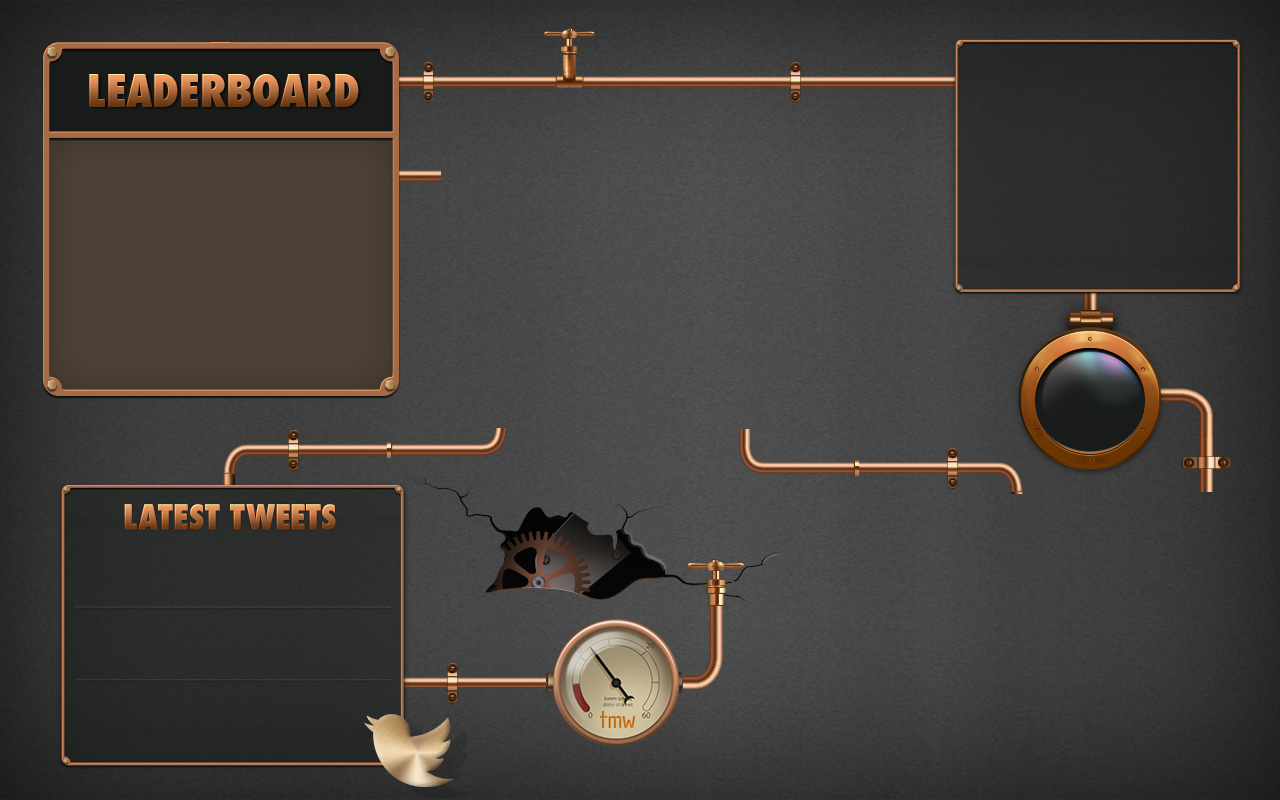
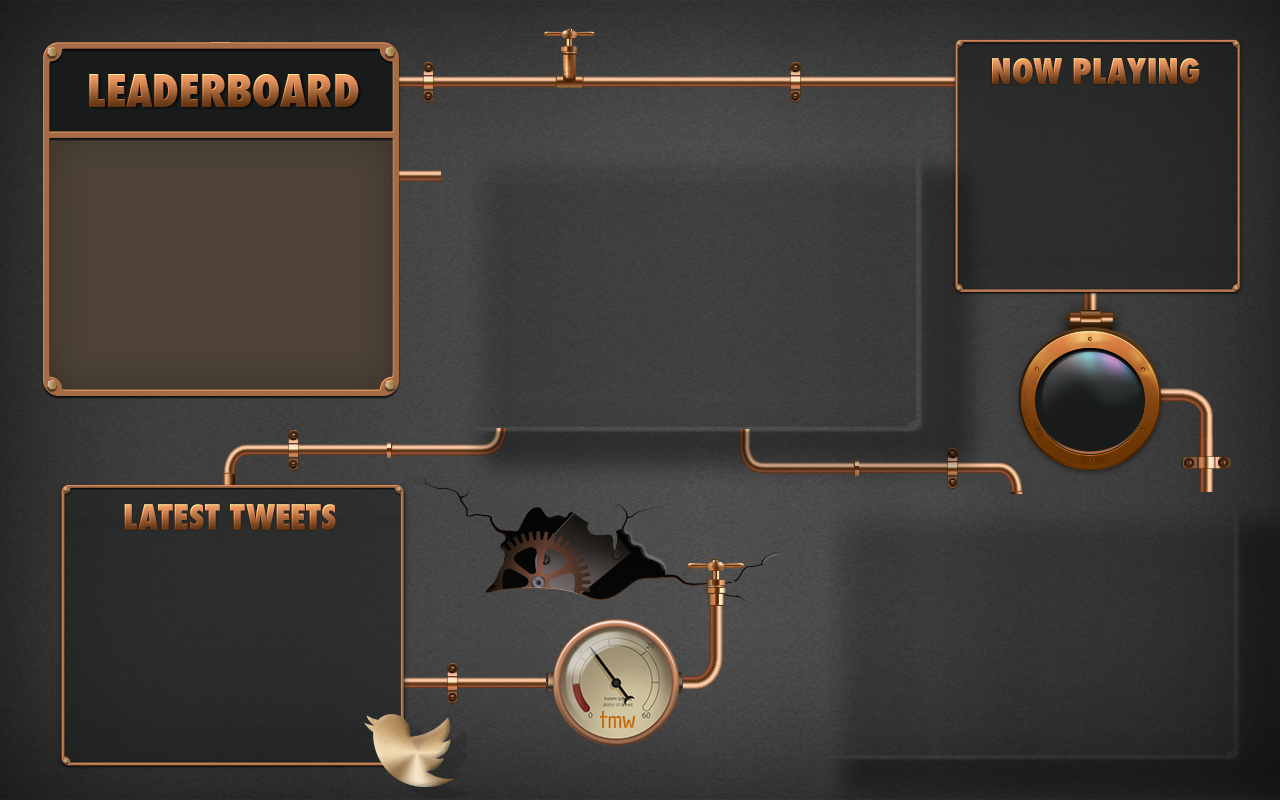
Add tweets, now playing and update bg

Changed region(s): [[0.375, 0.2188, 0.75, 0.5938], [0.75, 0.0625, 0.9375, 0.125]]

diff --git a/public_html/assets/css/views/competition.css b/public_html/assets/css/views/competition.css
@@ -20,18 +20,41 @@ body {
 	height: 251px;
 	top: 140px;
 	margin-left: -590px;
+}
+
+.leaderboard ul,
+.tweets ul {
+	margin: 0 10px;
 	font-weight: bold;
 	color: #fff;
+	text-shadow: 0 -1px 0px #000;
 }
+
+.leaderboard li,
+.tweets li {
+	border-top: 1px solid rgba(0, 0, 0, 0.14);
+	border-bottom: 1px solid rgba(255, 255, 255, 0.14);
+	padding-left: 10px;
+	padding-right: 10px;
+}
+
+.leaderboard li:first-child,
+.tweets li:first-child {
+	border-top: none;
+}
+
+.leaderboard li:last-child,
+.tweets li:last-child {
+	border-bottom: none;
+}
+
 
 .leaderboard li {
 	overflow: hidden;
-	padding: 0 20px;
-	height: 50px;
-	line-height: 50px;
-	font-size: 20px;
+	height: 48px;
+	line-height: 48px;
+	font-size: 24px;
 }
-
 .username {
 	float: left;
 }
@@ -48,6 +71,8 @@ body {
 	height: 301px;
 	top: 136px;
 	margin-left: -208px;
+	/*border-radius: 5px;
+	box-shadow: 20px 20px 27px rgba(0,0,0,0.2);*/
 }
 
 /* Live feed */
@@ -56,23 +81,46 @@ body {
 	height: 272px;
 	top: 490px;
 	margin-left: 157px;
+	/*border-radius: 5px;
+	box-shadow: 20px 20px 27px rgba(0,0,0,0.2);*/
 }
 
 /* Latest tweets */
 .tweets {
 	width: 334px;
 	height: 208px;
-	top: 555px;
+	top: 545px;
 	margin-left: -575px;
+}
 
+.tweets li {
+	padding-top: 5px;
+	padding-bottom: 5px;
+}
+
+.tweets a {
+	color: orange;
 }
 
 /* Now playing */
 .now-playing {
 	width: 276px;
 	height: 242px;
-	top: 46px;
+	top: 95px;
 	margin-left: 319px;
+	text-align: center;
+}
+
+.now-playing-img {
+	border-radius: 3px;
+}
+
+.now-playing-name {
+	font-size: 20px;
+	font-weight: bold;
+	color: #fff;
+	line-height: 2;
+	text-transform: uppercase;
 }
 
 /* Score */
@@ -84,8 +132,9 @@ body {
 	line-height: 106px;
 	text-align: center;
 	color: #fff;
-	font-size: 40px;
+	font-size: 35px;
 	font-weight: bold;
+	text-shadow: 0 -1px 2px #000;
 }
 
 
@@ -155,11 +204,6 @@ ul {
     list-style: none;
     margin-left: 0;
     padding-left: 0;
-}
-
-img {
-    border: 0;
-    float:left;
 }
 
 strong {

diff --git a/public_html/static.html b/public_html/static.html
@@ -35,6 +35,10 @@
 				<span class="username">@luke</span>
 				<span class="userscore">500</span>
 			</li>
+			<li>
+				<span class="username">@luke</span>
+				<span class="userscore">500</span>
+			</li>
 		</ul>
 	</div>
 
@@ -60,14 +64,26 @@
 
 	<div class="tweets">
 
+		<ul>
+			<li>
+				Just learned that there's now a hashchange event in Javascript.  Some days it feels like the future
+			</li>
+			<li>
+				Just learned that there's now a hashchange event in Javascript.  Some days it feels like the future
+			</li>
+			<li>
+				Just learned that there's now a hashchange event in Javascript.  Some days it feels like the future
+			</li>
+		</ul>
 	</div>
 
 	<div class="now-playing">
-
+		<img src="http://placekitten.com/146" alt="" class="now-playing-img">
+		<div class="now-playing-name">@davewillis</div>
 	</div>
 
 	<div class="score">
-		56%
+		100%
 	</div>
 
 
